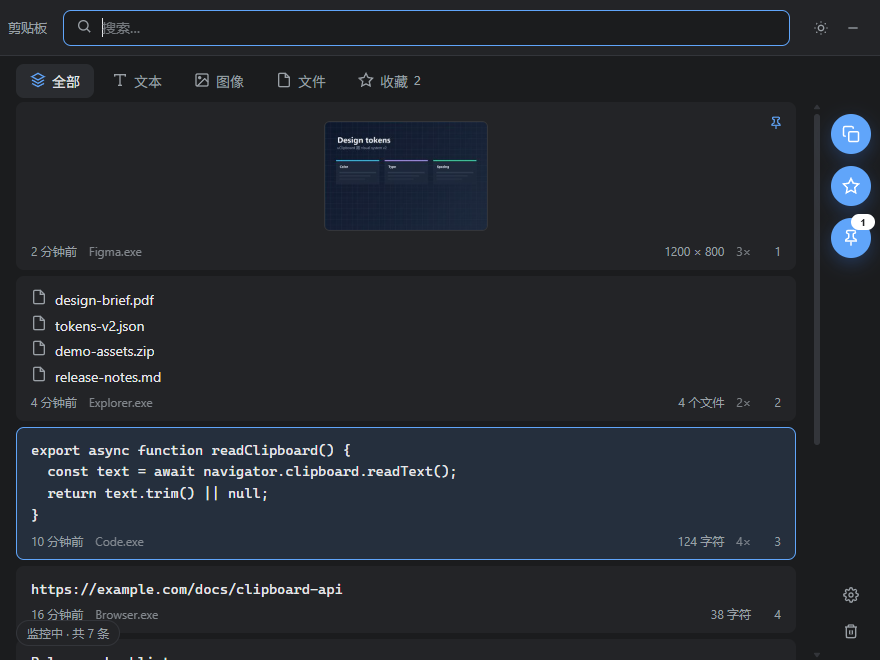
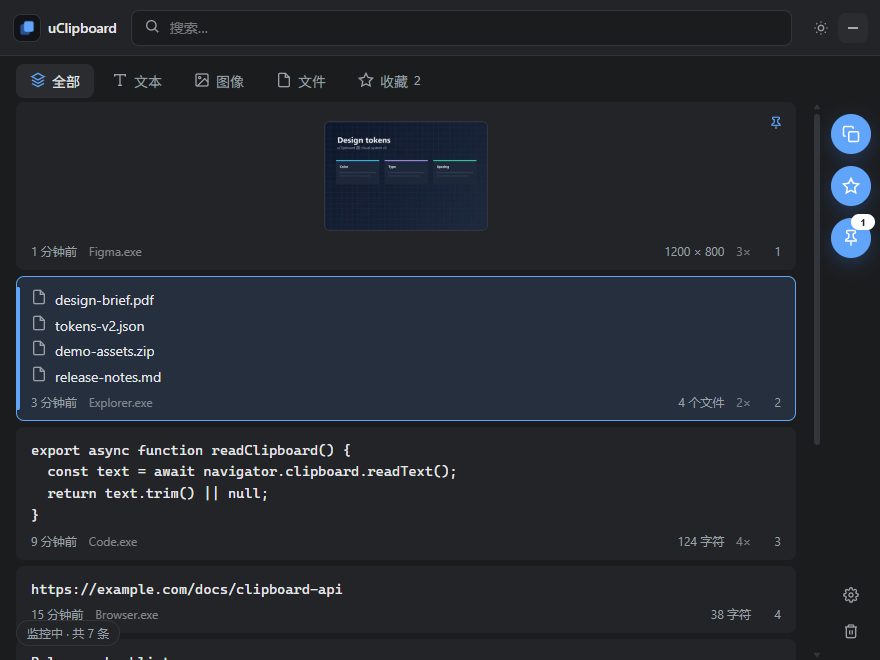
feat: finalize branding and signed release preparation
- unify the black/blue icon across app, tray, titlebar, about and README
- improve keyboard selection, selected-row highlight and Alt+V focus grace
- keep the tray on the compact dark icon
- drop macOS from the release matrix for the first release
- configure updater signing for the v0.1.0 release

Changed region(s): [[0.0, 0.0303, 0.2455, 0.0606], [0.0307, 0.7879, 0.1841, 0.8485], [0.0, 0.4242, 0.0307, 0.6364]]

diff --git a/src/styles.css b/src/styles.css
@@ -108,8 +108,8 @@ body[data-window="transfer"] {
   height: 56px;
   display: flex;
   align-items: center;
-  gap: 16px;
-  padding: 0 12px 0 8px;
+  gap: 14px;
+  padding: 0 12px;
   background: var(--surface);
   border-bottom: 1px solid var(--border);
 }
@@ -117,13 +117,26 @@ body[data-window="transfer"] {
 .brand {
   display: flex;
   align-items: center;
-  gap: 6px;
+  gap: 8px;
+  padding-left: 2px;
   flex: none;
 }
 
+.brand-logo {
+  width: 26px;
+  height: 26px;
+  display: block;
+  border-radius: 7px;
+  object-fit: contain;
+  flex: none;
+  box-shadow: 0 0 0 1px var(--border);
+}
+
 .brand-name {
-  font-size: 13px;
-  color: var(--text-2);
+  font-size: 14px;
+  font-weight: 600;
+  letter-spacing: -0.01em;
+  color: var(--text);
 }
 
 .search {
@@ -512,10 +525,18 @@ body[data-window="transfer"] {
   color: var(--text);
 }
 
-.brand-logo svg {
-  width: 16px;
-  height: 16px;
-  color: var(--accent);
+.about-brand {
+  display: flex;
+  align-items: center;
+  gap: 10px;
+}
+
+.about-logo {
+  width: 36px;
+  height: 36px;
+  border-radius: 9px;
+  display: block;
+  box-shadow: 0 0 0 1px var(--border);
 }
 
 .search-icon svg {
@@ -611,6 +632,7 @@ body[data-window="transfer"] {
   background: var(--surface);
   border: 1px solid transparent;
   cursor: default;
+  transition: border-color 0.12s ease, background 0.12s ease;
 }
 
 .item:hover {
@@ -618,11 +640,19 @@ body[data-window="transfer"] {
 }
 
 .item.selected {
-  border-color: var(--selected);
+  border-color: var(--accent);
+  background: var(--surface-2);
 }
 
-.item.selected:not(.picked) {
-  border-color: var(--border);
+.item.selected::before {
+  content: '';
+  position: absolute;
+  left: 0;
+  top: 10px;
+  bottom: 10px;
+  width: 3px;
+  border-radius: 0 3px 3px 0;
+  background: var(--accent);
 }
 
 .item.picked {

diff --git a/src/App.tsx b/src/App.tsx
@@ -62,7 +62,7 @@ export default function App() {
   const [monitorError, setMonitorError] = useState<string | null>(null);
   const inputRef = useRef<HTMLInputElement>(null);
 
-  const selected = items.find((item) => item.id === selectedId) ?? items[0] ?? null;
+  const selected = items.find((item) => item.id === selectedId) ?? null;
   const paused = settings?.monitorPaused ?? false;
 
   useEffect(() => {
@@ -93,6 +93,7 @@ export default function App() {
         setSettingsOpen(false);
         setPreviewItem(null);
         clearSelection();
+        select(null);
         setQuery('');
         inputRef.current?.focus();
       }),
@@ -312,7 +313,8 @@ export default function App() {
       }
       if (event.key === 'ArrowUp') {
         event.preventDefault();
-        const prev = items[Math.max(index - 1, 0)];
+        const prev =
+          found < 0 ? items[items.length - 1] : items[Math.max(index - 1, 0)];
         if (prev) select(prev.id);
         return;
       }

diff --git a/src/components/SettingsView.tsx b/src/components/SettingsView.tsx
@@ -1,6 +1,7 @@
 import { useEffect, useState, type FocusEvent } from 'react';
 import { getVersion } from '@tauri-apps/api/app';
 
+import logoUrl from '../assets/logo.png';
 import { errorText } from '../lib/errors';
 import * as ipc from '../lib/ipc';
 import { HotkeyRecorder } from './HotkeyRecorder';
@@ -427,7 +428,10 @@ export function SettingsView({ onClose }: Props) {
         {section === 'about' && (
           <div className="settings-group">
             <div className="about-card">
-              <strong>uClipboard</strong>
+              <div className="about-brand">
+                <img className="about-logo" src={logoUrl} alt="" />
+                <strong>uClipboard</strong>
+              </div>
               <p>{t('aboutDescription')}</p>
               <div className="about-meta">
                 <span>

diff --git a/src/components/Titlebar.tsx b/src/components/Titlebar.tsx
@@ -1,5 +1,6 @@
 import type { RefObject } from 'react';
 
+import logoUrl from '../assets/logo.png';
 import { Icon } from '../lib/icons';
 import { useI18n } from '../lib/useI18n';
 
@@ -24,7 +25,8 @@ export function Titlebar({
   return (
     <header className="titlebar" data-tauri-drag-region>
       <div className="brand">
-        <span className="brand-name">{t('appName')}</span>
+        <img className="brand-logo" src={logoUrl} alt="" />
+        <span className="brand-name">uClipboard</span>
       </div>
       <label className="search" htmlFor="searchInput">
         <span className="search-icon">

diff --git a/src/stores/clipboard.ts b/src/stores/clipboard.ts
@@ -52,9 +52,8 @@ export const useClipboard = create<ClipboardState>((set, get) => ({
       ]);
       if (seq !== requestSeq) return;
       const current = get().selectedId;
-      const selectedId = items.some((item) => item.id === current)
-        ? current
-        : (items[0]?.id ?? null);
+      const selectedId =
+        current && items.some((item) => item.id === current) ? current : null;
       set({ items, favoriteCount, totalCount, loading: false, error: null, selectedId });
     } catch (error) {
       if (seq !== requestSeq) return;

diff --git a/src/stores/clipboard.test.ts b/src/stores/clipboard.test.ts
@@ -63,4 +63,12 @@ describe('clipboard store', () => {
     expect(useClipboard.getState().selectedIds).toEqual([]);
     await vi.waitFor(() => expect(ipc.listItems).toHaveBeenCalledWith('text', ''));
   });
+
+  it('does not auto-select the first row when nothing is selected', async () => {
+    useClipboard.setState({ selectedId: null, items: [] });
+
+    await useClipboard.getState().load();
+
+    expect(useClipboard.getState().selectedId).toBeNull();
+  });
 });

diff --git a/src-tauri/src/lib.rs b/src-tauri/src/lib.rs
@@ -11,7 +11,7 @@ mod storage;
 mod tray;
 
 use std::sync::{Arc, Mutex};
-use std::time::Duration;
+use std::time::{Duration, Instant};
 
 use tauri::{Emitter, Manager, PhysicalPosition, WindowEvent};
 use tauri_plugin_global_shortcut::{GlobalShortcutExt, Shortcut};
@@ -45,6 +45,11 @@ fn center_on_cursor(window: &tauri::WebviewWindow) {
 
 pub(crate) fn show_main(app: &tauri::AppHandle) {
     if let Some(window) = app.get_webview_window("main") {
+        if let Some(state) = app.try_state::<state::AppState>() {
+            if let Ok(mut guard) = state.main_shown_at.lock() {
+                *guard = Some(Instant::now());
+            }
+        }
         let _ = window.unminimize();
         center_on_cursor(&window);
         let _ = window.show();
@@ -180,6 +185,7 @@ pub fn run() {
                 transfer_ids: Mutex::new(Vec::new()),
                 target_hwnd: Mutex::new(None),
                 screenshot: Mutex::new(None),
+                main_shown_at: Mutex::new(None),
             });
 
             #[cfg(not(debug_assertions))]
@@ -259,8 +265,9 @@ pub fn run() {
                         }
                     }
                     WindowEvent::Focused(false) => {
-                        let hide_on_blur = handle
-                            .try_state::<state::AppState>()
+                        let state = handle.try_state::<state::AppState>();
+                        let hide_on_blur = state
+                            .as_ref()
                             .and_then(|state| {
                                 state
                                     .settings
@@ -270,6 +277,19 @@ pub fn run() {
                             })
                             .unwrap_or(false);
                         if !hide_on_blur {
+                            return;
+                        }
+                        // Showing the window can briefly emit Focused(false) while
+                        // Windows settles the foreground window; ignoring that grace
+                        // period prevents the "flash then disappear" behaviour.
+                        let just_shown = state
+                            .as_ref()
+                            .and_then(|state| {
+                                state.main_shown_at.lock().ok().and_then(|guard| *guard)
+                            })
+                            .map(|at| at.elapsed() < Duration::from_millis(500))
+                            .unwrap_or(false);
+                        if just_shown {
                             return;
                         }
                         let transfer_visible = handle

diff --git a/src-tauri/src/tray.rs b/src-tauri/src/tray.rs
@@ -54,9 +54,9 @@ fn build_menu(app: &AppHandle) -> tauri::Result<Menu<tauri::Wry>> {
 }
 
 pub fn setup(app: &AppHandle) -> tauri::Result<()> {
-    let Some(icon) = app.default_window_icon().cloned() else {
-        return Ok(());
-    };
+    // The tray keeps the compact black/blue mark, which reads better on a dark
+    // notification area than the larger blue app tile.
+    let icon = tauri::image::Image::from_bytes(include_bytes!("../icons/tray.png"))?;
     let menu = build_menu(app)?;
 
     TrayIconBuilder::with_id("main")

diff --git a/src-tauri/src/state.rs b/src-tauri/src/state.rs
@@ -89,6 +89,7 @@ pub struct AppState {
     pub transfer_ids: Mutex<Vec<String>>,
     pub target_hwnd: Mutex<Option<isize>>,
     pub screenshot: Mutex<Option<crate::screenshot::ScreenshotSession>>,
+    pub main_shown_at: Mutex<Option<std::time::Instant>>,
 }
 
 /// The subset of [`AppState`] that commands hand to blocking tasks. `State<'_, AppState>`

diff --git a/src-tauri/src/commands.rs b/src-tauri/src/commands.rs
@@ -1026,6 +1026,7 @@ mod tests {
             transfer_ids: Mutex::new(Vec::new()),
             target_hwnd: Mutex::new(None),
             screenshot: Mutex::new(None),
+            main_shown_at: Mutex::new(None),
         };
 
         assert!(cleanup_media(&app_state.shared()).is_err());

diff --git a/README.md b/README.md
@@ -1,3 +1,5 @@
+<p align="center"><img src="docs/logo.png" alt="uClipboard" width="96"></p>
+
 # uClipboard
 
 跨平台开源剪贴板管理器，基于 Tauri 2 + React + TypeScript。
@@ -106,6 +108,7 @@ node prototypes/serve.js
 - 临时中转的焦点恢复优化仅在 Windows 启用，其他平台回退为隐藏/重开
 - 区域截图只在 Windows 完成真机验收；macOS 需要屏幕录制权限，Wayland 的覆盖层定位取决于桌面环境
 - 录制快捷键时无法屏蔽其它软件已注册的全局热键；被占用的组合请换一个或临时关闭对应软件
+- 首发版本暂不提供 macOS 安装包；CI 仍保留 macOS 编译检查
 - macOS/Linux 已进入 CI 构建，但本版本只在 Windows 真机完成完整交互验收
 - 代码签名/公证不在 v1 范围，Windows SmartScreen 与 macOS Gatekeeper 可能提示
 
